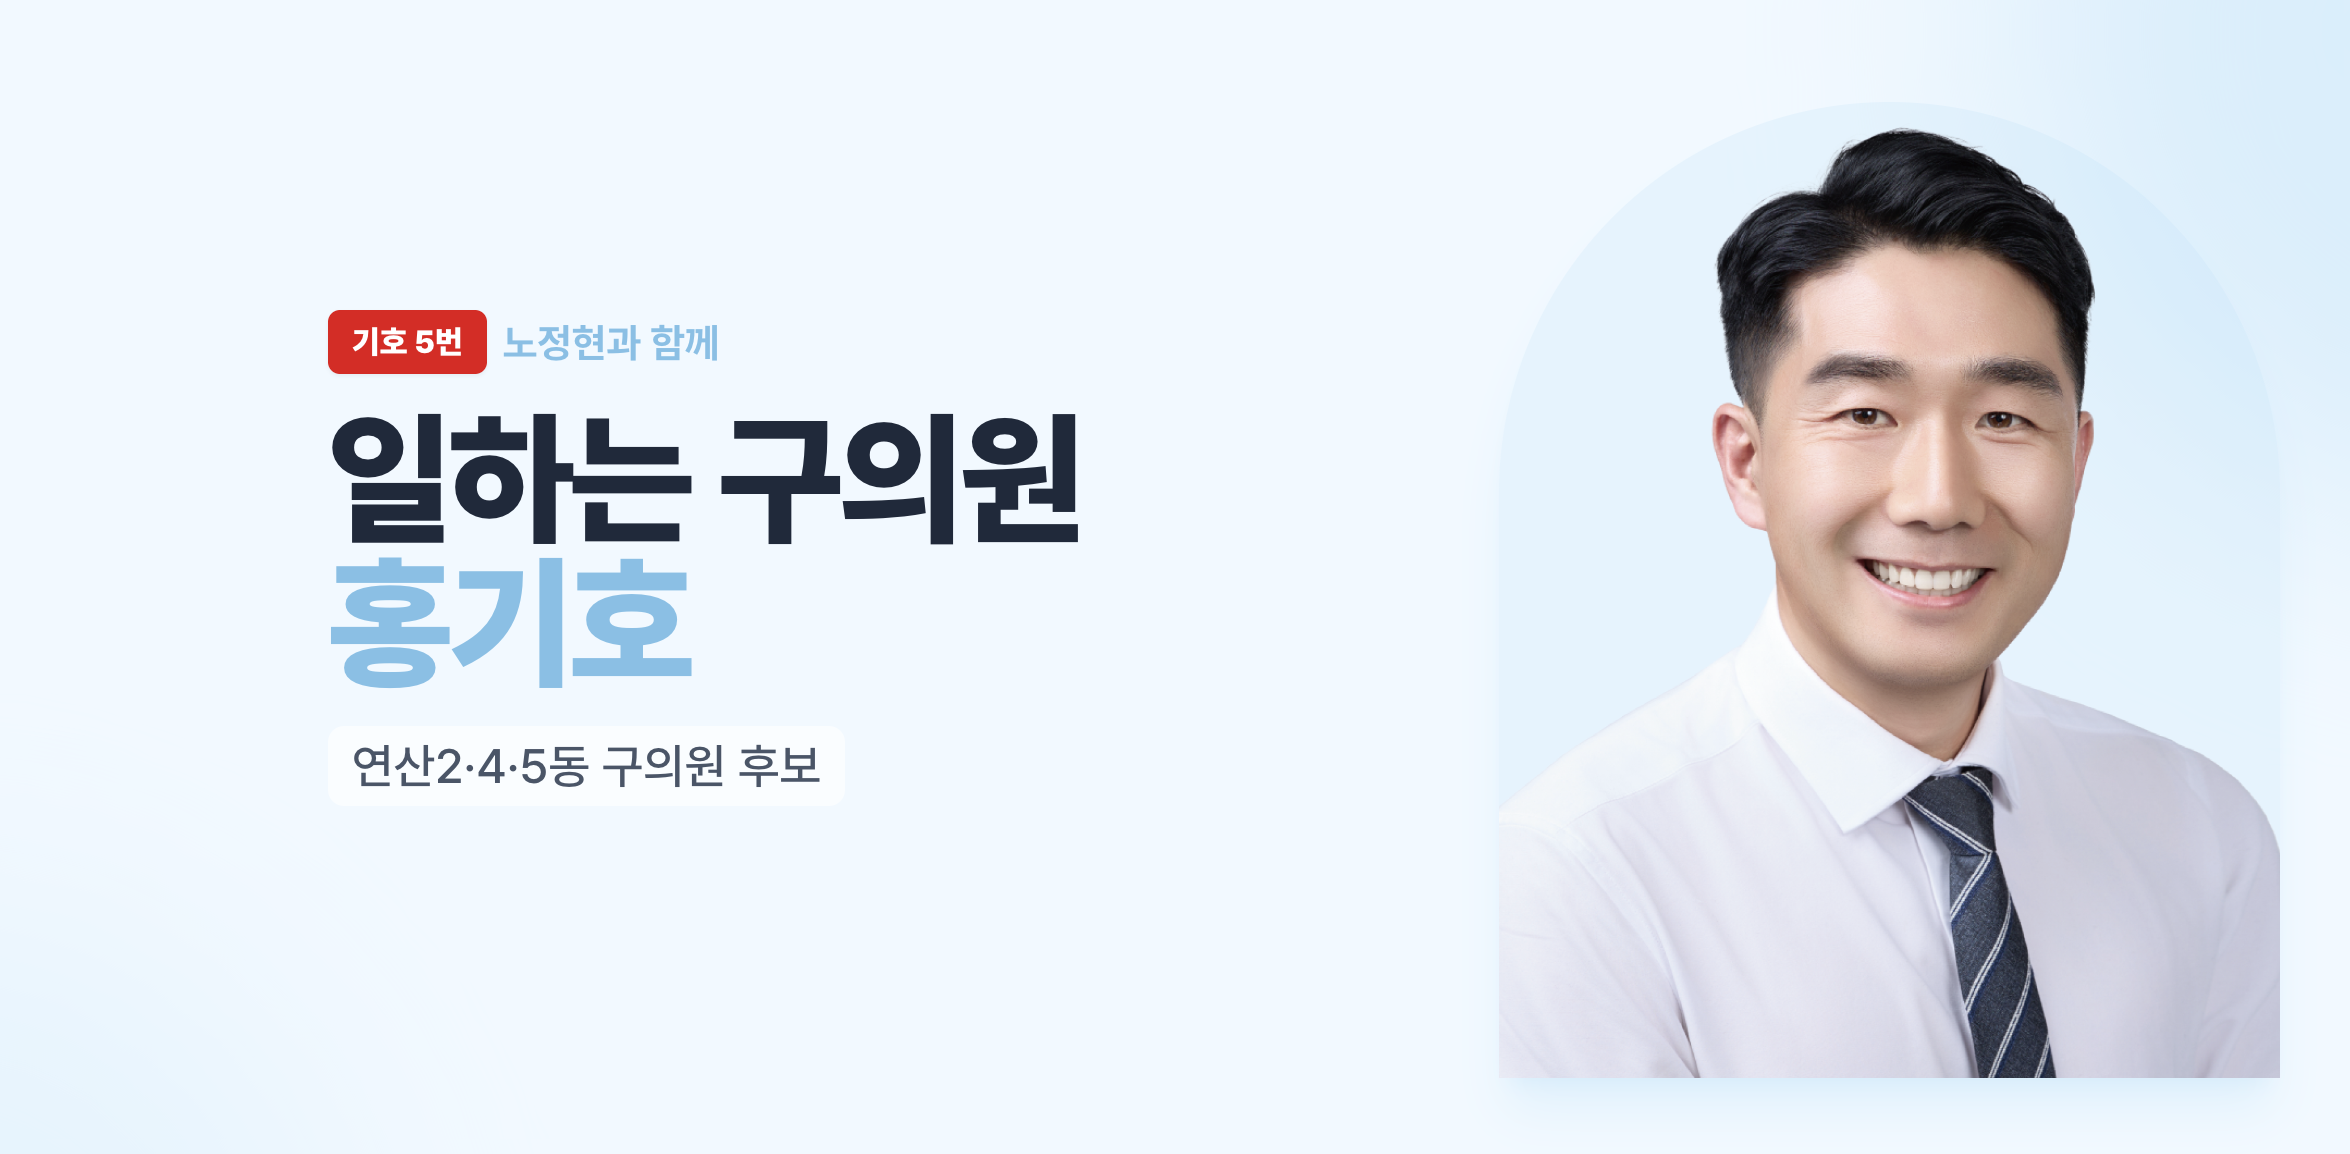
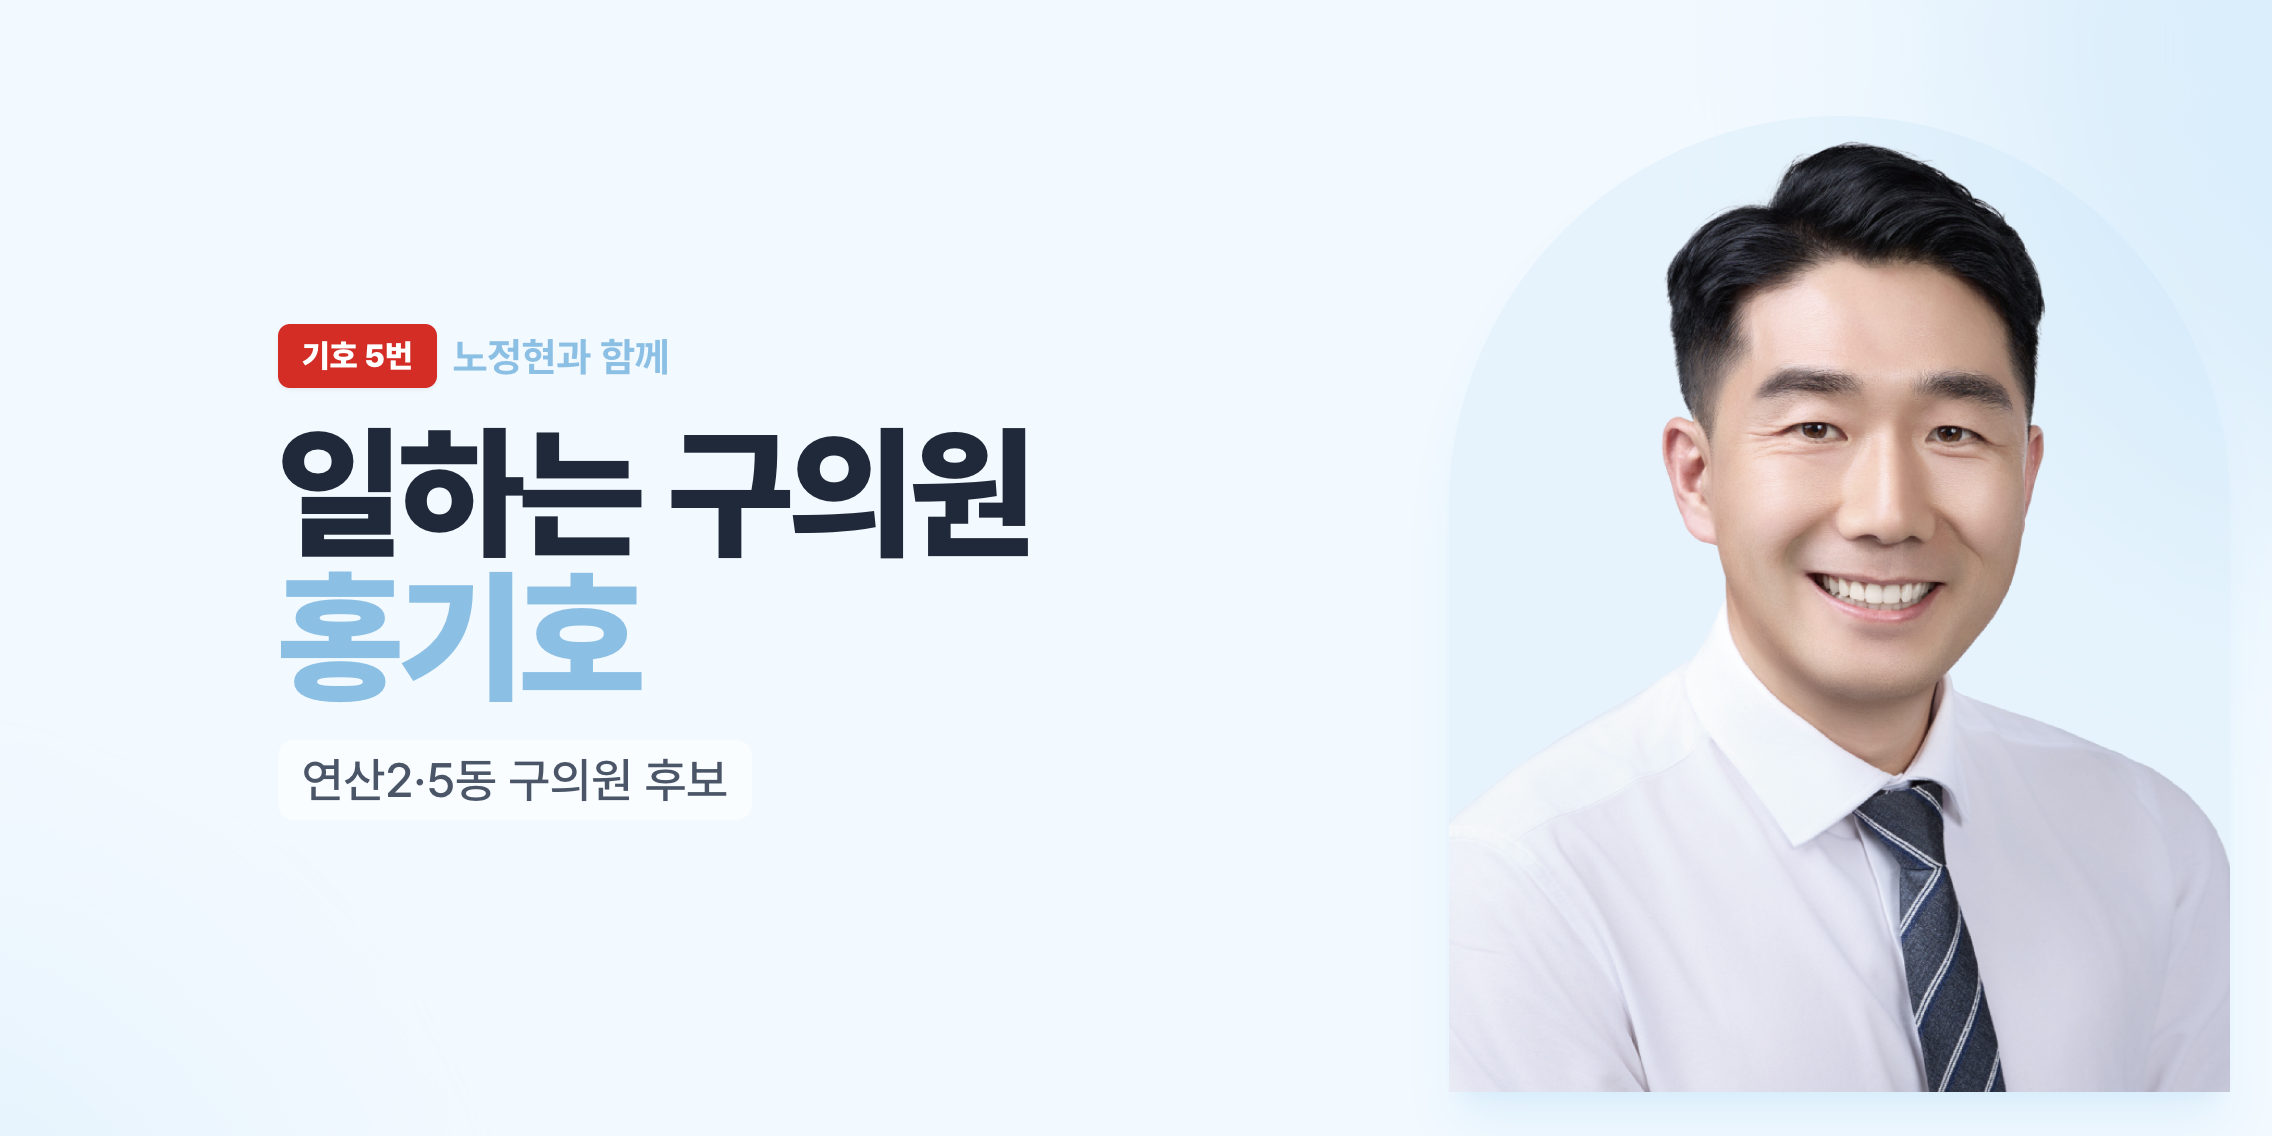
Add files via upload

diff --git a/index.html b/index.html
@@ -3,10 +3,10 @@
 <head>
 <meta charset="UTF-8">
 <meta name="viewport" content="width=device-width, initial-scale=1.0">
-<title>진보당 홍기호 연산2·4·5동 구의원 후보</title>
-<meta name="description" content="연산2·4·5동 구의원 후보 홍기호 공식 홈페이지입니다.">
-<meta property="og:title" content="진보당 홍기호 연산2·4·5동 구의원 후보">
-<meta property="og:description" content="연산2·4·5동 주민을 위해 실천하는 일꾼, 홍기호와 함께해주세요!">
+<title>진보당 홍기호 연산2·5동 구의원 후보</title>
+<meta name="description" content="연산2·5동 구의원 후보 홍기호 공식 홈페이지입니다.">
+<meta property="og:title" content="진보당 홍기호 연산2·5동 구의원 후보">
+<meta property="og:description" content="연산2·5동 주민을 위해 실천하는 일꾼, 홍기호와 함께해주세요!">
 <meta property="og:url" content="https://busanjinbo.github.io/yeonjehgh/">
 <meta property="og:image" content="https://busanjinbo.github.io/yeonjehgh/assets/thumbnail.png">
 <meta property="og:image:width" content="1200">
@@ -15,8 +15,8 @@
 <meta name="format-detection" content="telephone=no">
 <!-- Twitter Card 설정 (텔레그램, 트위터 최적화) -->
 <meta name="twitter:card" content="summary_large_image">
-<meta name="twitter:title" content="진보당 홍기호 연산2·4·5동 구의원 후보">
-<meta name="twitter:description" content="연산2·4·5동 주민을 위해 실천하는 일꾼, 홍기호와 함께해주세요!">
+<meta name="twitter:title" content="진보당 홍기호 연산2·5동 구의원 후보">
+<meta name="twitter:description" content="연산2·5동 주민을 위해 실천하는 일꾼, 홍기호와 함께해주세요!">
 <meta name="twitter:image" content="https://busanjinbo.github.io/yeonjehgh/assets/thumbnail.png">
 <!-- Pretendard 폰트 (고급스럽고 가독성 뛰어남) -->
 <link rel="stylesheet" as="style" crossorigin href="https://cdn.jsdelivr.net/gh/orioncactus/pretendard@v1.3.9/dist/web/static/pretendard.min.css"/>
@@ -131,7 +131,7 @@ html {
 </h1>
 <!-- 서브 설명 -->
 <p class="text-xl md:text-2xl text-graytext font-medium break-keep mb-8 bg-white/60 inline-block px-3 py-1 rounded-lg">
-연산2·4·5동 구의원 후보
+연산2·5동 구의원 후보
 </p>
 </div>
 <!-- 우측 후보자 사진 (4:5 아치형 디자인 강제 적용) -->
@@ -148,12 +148,12 @@ html {
 <h2 class="text-4xl md:text-5xl font-black text-dark mb-4 break-keep">홍기호에게 힘이 되어주세요.</h2>
 <div class="w-16 h-1.5 bg-secondary mx-auto mb-6"></div>
 <h3 class="text-xl md:text-2xl text-secondarydark font-bold mb-6 break-keep">
-오직, 연산2·4·5동 주민에게만 빚지고 싶습니다
+오직, 연산2·5동 주민에게만 빚지고 싶습니다
 </h3>
 <p class="text-graytext text-lg md:text-xl font-medium space-y-2 break-keep bg-sky-50 py-6 px-4 rounded-xl border border-sky-100">
 <span class="block text-dark font-bold">주민에게 빚져야 주민께 봉사로 갚습니다.</span>
 <span class="block">10만원까지는 연말정산 시 <span class="text-point font-bold">전액 돌려받습니다.</span></span>
-<span class="block">연산2·4·5동 주민의 후원이 간절합니다.</span>
+<span class="block">연산2·5동 주민의 후원이 간절합니다.</span>
 </p>
 </div>
 <!-- 계좌 정보 및 복사 버튼 -->
@@ -480,7 +480,7 @@ html {
 <h2 class="text-3xl md:text-4xl font-black mb-6 tracking-tight">공천만 받으면 당선되는 구의원,<br class="md:hidden"> 주민 눈치를 보지 않습니다.</h2>
 <p class="text-lg md:text-xl font-medium leading-relaxed break-keep">
 구의원 해외연수부터 중단하고 4년 내내 주민을 향해 발로 뛰겠습니다.<br>
-<span class="font-bold text-dark mt-4 block text-2xl">연산 2·4·5동 구의원 2명 중 한 명은 진보구의원으로!</span>
+<span class="font-bold text-dark mt-4 block text-2xl">연산 2·5동 구의원 2명 중 한 명은 진보구의원으로!</span>
 </p>
 </div>
 </section>
@@ -516,7 +516,7 @@ html {
 <footer class="bg-dark text-white pt-10 pb-8 mt-auto">
 <div class="max-w-5xl mx-auto px-4 sm:px-6 text-center">
 <div class="text-gray-400 font-light text-sm md:text-base mb-6 space-y-2">
-<p>진보당 홍기호 연산2·4·5동 구의원 후보</p>
+<p>진보당 홍기호 연산2·5동 구의원 후보</p>
 <p>선거사무소: 연제구 월드컵대로 141, 동화빌딩 7층</p>
 <p>전화: <strong class="text-white cursor-pointer hover:text-secondary transition-colors" onclick="copyPhoneNumber('010-4652-6172')" title="클릭하여 번호 복사">010-4652-6172</strong></p>
 <p>인스타그램: hongzzang79 &nbsp;|&nbsp; 페이스북: hongkiho79</p>
